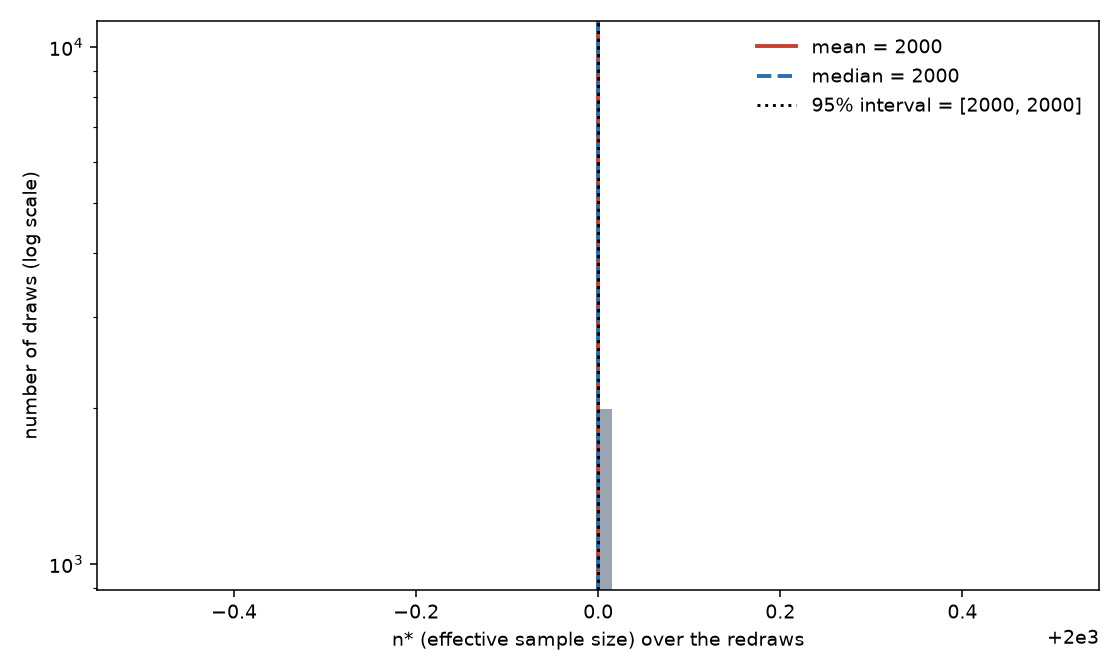
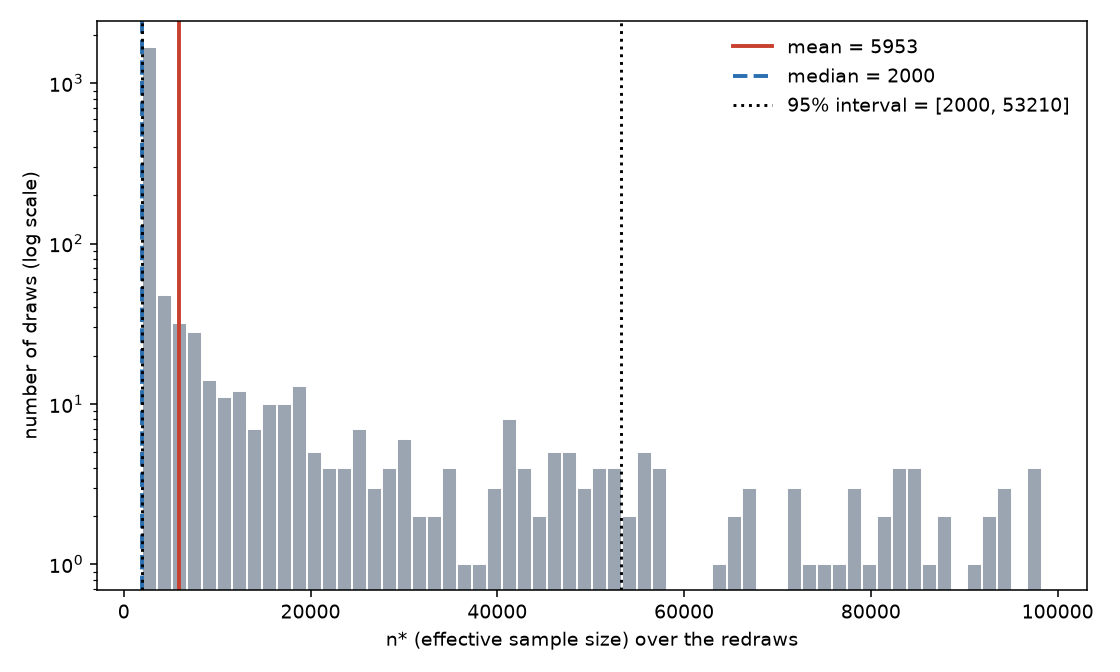
Updated n_star calculation

diff --git a/src/python/get_n_star.py b/src/python/get_n_star.py
@@ -16,6 +16,7 @@ This is a sensitivity check around the observed values. It gives no coverage gua
 the true means; protection against over-borrowing comes from the calibration of k.
 """
 import numpy as np
+import pandas as pd
 import matplotlib.pyplot as plt
 import utils as ut
 
@@ -27,7 +28,7 @@ def _lambda(xbar_0, xbar_h, var_0, var_h, n_0, n_h, k, use_sd_scale):
 
 
 def get_n_star(xbar_0, xbar_h, var_0, var_h, n_0, n_h, k, n_draws=2000, seed=2026,
-               use_sd_scale=False, sample_variances=True, margin=0.10):
+               use_sd_scale=False, sample_variances=False, margin=0.10):
     """
     Inputs:
         xbar_0, xbar_h - observed means of the drone and external data
@@ -46,7 +47,7 @@ def get_n_star(xbar_0, xbar_h, var_0, var_h, n_0, n_h, k, n_draws=2000, seed=202
         ci95_low, ci95_high - 2.5th and 97.5th percentiles of n* over the redraws
         share_borrowing - share of draws with n* > (1 + margin) * n_0
         N_star - min(observed_n_star, median)
-        d_star, n_star_draws - arrays for plotting
+        d_star, n_star_draws, lambda_draws - arrays of the redraws (for plotting)
     """
     ratio = var_0 / var_h
     lam_obs = _lambda(xbar_0, xbar_h, var_0, var_h, n_0, n_h, k, use_sd_scale)
@@ -56,6 +57,7 @@ def get_n_star(xbar_0, xbar_h, var_0, var_h, n_0, n_h, k, n_draws=2000, seed=202
     se_0, se_h = np.sqrt(var_0 / n_0), np.sqrt(var_h / n_h)
     d_star = np.empty(n_draws)
     n_star = np.empty(n_draws)
+    lam_draws = np.empty(n_draws)
     for i in range(n_draws):
         x0 = np.random.normal(xbar_0, se_0)
         xh = np.random.normal(xbar_h, se_h)
@@ -66,6 +68,7 @@ def get_n_star(xbar_0, xbar_h, var_0, var_h, n_0, n_h, k, n_draws=2000, seed=202
             v0, vh = var_0, var_h
         lam = _lambda(x0, xh, v0, vh, n_0, n_h, k, use_sd_scale)
         d_star[i] = xh - x0
+        lam_draws[i] = lam
         n_star[i] = n_0 + lam * (v0 / vh) * n_h
 
     med = np.median(n_star)
@@ -81,6 +84,7 @@ def get_n_star(xbar_0, xbar_h, var_0, var_h, n_0, n_h, k, n_draws=2000, seed=202
         "share_borrowing": np.mean(n_star > (1 + margin) * n_0),
         "N_star": min(n_star_obs, med),
         "d_star": d_star,
+        "lambda_draws": lam_draws,
         "n_star_draws": n_star,
     }
 
@@ -132,10 +136,72 @@ def plot_n_star_hist(res, n_0, bins=60, log_y=True, save_path=None):
     return fig
 
 
+def make_xbar_h_grid(xbar_0, var_0, var_h, n_0, n_h, max_se=4.0, step_se=0.5):
+    """External means in fixed steps of SE_diff around x̄_0: x̄_0 + j * step_se * SE_diff,
+    for j from -max_se/step_se to +max_se/step_se. SE_diff = sqrt(var_0/n_0 + var_h/n_h)."""
+    se_diff = np.sqrt(var_0 / n_0 + var_h / n_h)
+    m = int(round(max_se / step_se))
+    return xbar_0 + step_se * se_diff * np.arange(-m, m + 1)
+
+
+def get_xbar_h_table(xbar_0, var_0, var_h, n_0, n_h, k, xbar_h_values,
+                     xbar_h_observed=None, n_draws=2000, seed=2026,
+                     use_sd_scale=False, sample_variances=False):
+    """
+    Table of lambda and n* as the external mean varies, with x̄_0 and the variances fixed.
+    Each column treats its x̄_h as the "observed" external mean: the observed lambda and n*
+    are computed from it, and the redraws are x̄_0* ~ N(x̄_0, var_0/n_0) and
+    x̄_h* ~ N(that x̄_h, var_h/n_h) (see get_n_star). Every column uses the same seed.
+
+    Inputs:
+        xbar_0 - observed drone mean (fixed)
+        var_0, var_h, n_0, n_h, k - as in get_n_star
+        xbar_h_values - iterable of external means (e.g. from make_xbar_h_grid)
+        xbar_h_observed - your actual observed x̄_h; added as its own column
+                          (the is_observed row is 1 there)
+        n_draws, seed, use_sd_scale, sample_variances - as in get_n_star
+    Output:
+        DataFrame, one column per x̄_h (sorted), rows:
+            xbar_h, diff_in_SEs, is_observed,
+            observed_lambda, observed_n_star,
+            lambda_median, lambda_mean, lambda_ci95_low, lambda_ci95_high,
+            n_star_median, n_star_mean, n_star_ci95_low, n_star_ci95_high
+        The 95% interval is the 2.5th to 97.5th percentile of the redraws.
+    """
+    values = [float(v) for v in xbar_h_values]
+    if xbar_h_observed is not None:
+        values.append(float(xbar_h_observed))
+    values = sorted(set(np.round(values, 10)))
+    se_diff = np.sqrt(var_0 / n_0 + var_h / n_h)
+    cols = {}
+    for xbar_h in values:
+        r = get_n_star(xbar_0, xbar_h, var_0, var_h, n_0, n_h, k, n_draws=n_draws,
+                       seed=seed, use_sd_scale=use_sd_scale,
+                       sample_variances=sample_variances)
+        lam, ns = r["lambda_draws"], r["n_star_draws"]
+        cols[xbar_h] = {
+            "xbar_h": xbar_h,
+            "diff_in_SEs": (xbar_h - xbar_0) / se_diff,
+            "is_observed": float(xbar_h_observed is not None
+                                 and np.isclose(xbar_h, xbar_h_observed)),
+            "observed_lambda": r["observed_lambda"],
+            "observed_n_star": r["observed_n_star"],
+            "lambda_median": np.median(lam),
+            "lambda_mean": lam.mean(),
+            "lambda_ci95_low": np.percentile(lam, 2.5),
+            "lambda_ci95_high": np.percentile(lam, 97.5),
+            "n_star_median": np.median(ns),
+            "n_star_mean": ns.mean(),
+            "n_star_ci95_low": np.percentile(ns, 2.5),
+            "n_star_ci95_high": np.percentile(ns, 97.5),
+        }
+    return pd.DataFrame(cols)
+
+
 #%% Run
 if __name__ == "__main__":
     # ---- ILLUSTRATIVE numbers: replace with your observed values ----
-    XBAR_0, XBAR_H = 1.75, 1.80
+    XBAR_0, XBAR_H = 1.75, 1.77
     VAR_0, VAR_H = 2.0, 2.0
     N_0, N_H = 2000, 98000
     K = 20
@@ -149,5 +215,14 @@ if __name__ == "__main__":
     print(f"95% interval of n*: [{res['ci95_low']:.1f}, {res['ci95_high']:.1f}]")
     print(f"N* = {res['N_star']:.1f}")
     plot_n_star(res, N_0, VAR_0, N_H, VAR_H, XBAR_0, XBAR_H, save_path="n_star_sensitivity.png")
-    plot_n_star_hist(res, N_0, save_path="n_star_histogram.png", log_y=True)
+    plot_n_star_hist(res, N_0, save_path="n_star_histogram.png")
+
+    # ---- table over a grid of external means (fixed steps of SE_diff around x̄_0) ----
+    grid = make_xbar_h_grid(XBAR_0, VAR_0, VAR_H, N_0, N_H, max_se=4.0, step_se=0.5)
+    table = get_xbar_h_table(XBAR_0, VAR_0, VAR_H, N_0, N_H, K, grid,
+                             xbar_h_observed=XBAR_H)
+    pd.set_option("display.width", 300, "display.max_columns", 40,
+                  "display.float_format", lambda v: f"{v:.4g}")
+    print(table)
+    table.to_csv("xbar_h_table.csv")
     plt.show()

diff --git a/src/python/calibrate_k.py b/src/python/calibrate_k.py
@@ -270,7 +270,7 @@ if __name__ == "__main__":
         MU_NULL = 1.75               # benchmark mean (e.g., observed subset mean)
         VAR_0 = 2.0                  # subset variance (illustrative: SD = 2)
         VAR_H = 2.0                  # external variance
-        N_0, N_H = 1000, 1000       # subset and external sample sizes
+        N_0, N_H = 2000, 98000       # subset and external sample sizes
         DELTA = 2.8 * np.sqrt(VAR_0 / N_0)   # ~80% power without borrowing
         KS = [0, 1, 2, 3, 5, 8, 10, 20, 50]  # k = 0: lambda = 1 (full pooling)
         GAPS = np.unique(np.round(np.concatenate([
